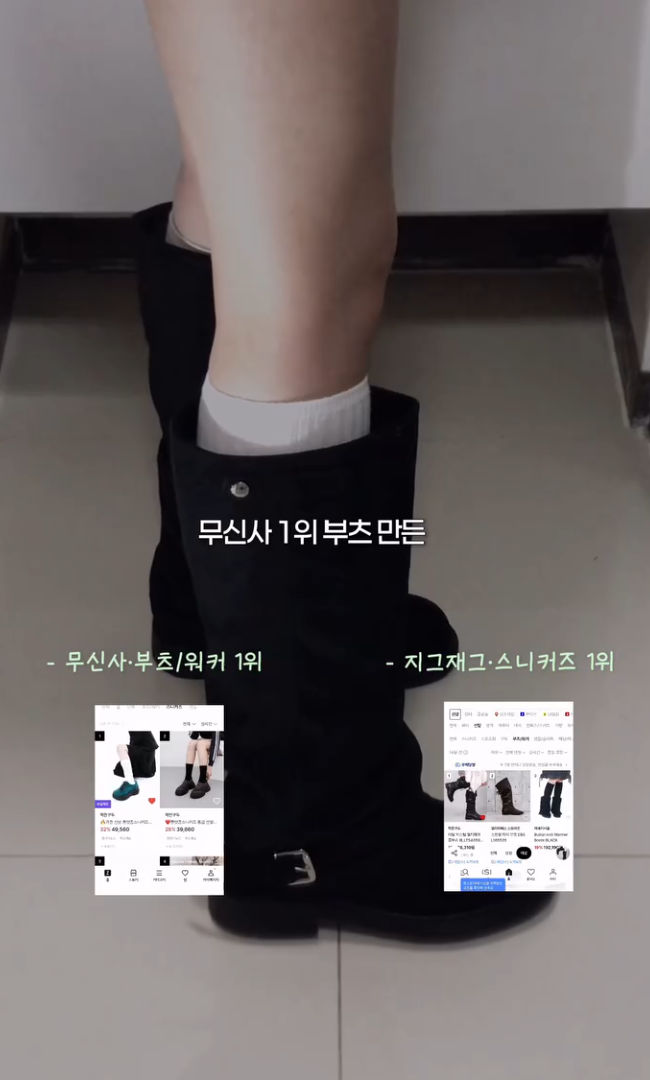
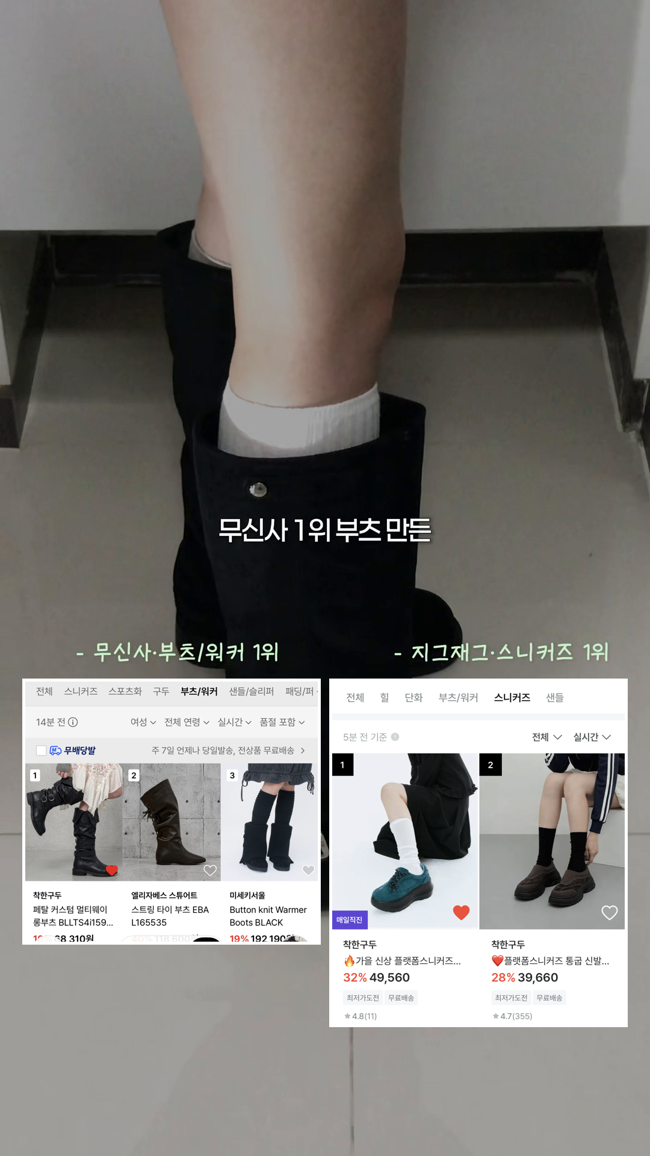
가이드: 랭킹 캡처를 두 번째 장면 바로 뒤로, 캡처 크게(배치 예시 교체)

diff --git a/keyheight/index.html b/keyheight/index.html
@@ -73,15 +73,15 @@ td{height:48px}footer{padding:30px 28px 60px}
 .chk{list-style:none;padding:0!important}.chk li:before{content:'□ ';color:var(--accent-deep);font-weight:800}
 @media(max-width:640px){.thumbs{grid-template-columns:repeat(3,1fr)}.inner{padding:0 16px}.scene{grid-template-columns:1fr}.scene .frame{max-width:260px}.prods{grid-template-columns:1fr 1fr;gap:12px}}
 .files{display:grid;grid-template-columns:repeat(4,minmax(0,1fr));gap:14px;margin-top:14px}.files a{display:block;text-decoration:none;color:var(--ink);border:1px solid var(--line);border-radius:14px;padding:10px;background:var(--soft);font-size:13.5px;font-weight:700;text-align:center}.files img{width:100%;height:120px;object-fit:contain;background:#fff;border-radius:10px;margin-bottom:8px;display:block}
-.rankrow{display:grid;grid-template-columns:260px 1fr;gap:24px;align-items:start;margin-top:10px}.rankrow>img{width:100%;border-radius:16px;border:1px solid var(--line)}
-@media(max-width:640px){.files{grid-template-columns:1fr 1fr}.rankrow{grid-template-columns:1fr}.rankrow>img{max-width:260px}}
+.rankrow{display:grid;grid-template-columns:360px 1fr;gap:24px;align-items:start;margin-top:10px}.rankrow>img{width:100%;border-radius:16px;border:1px solid var(--line)}
+@media(max-width:640px){.files{grid-template-columns:1fr 1fr}.rankrow{grid-template-columns:1fr}.rankrow>img{max-width:340px}}
 .thumb{margin-top:14px;padding:18px;border-radius:16px;background:#1b1b1d;color:#fff;text-align:center;max-width:420px}
 .thumb .zz{display:inline-block;background:#F23BA8;color:#fff;font-weight:900;font-size:14px;letter-spacing:.06em;padding:4px 12px;border-radius:6px}
 .thumb .l1{margin-top:10px;font-size:16px;font-weight:700}.thumb .l2{font-size:26px;font-weight:900;letter-spacing:-.03em;line-height:1.25}.thumb .l3{margin-top:6px;font-size:13px;color:#7EE8F2}
 .thumbs{display:grid;grid-template-columns:repeat(3,minmax(0,150px));gap:12px;margin-top:14px}.thumbs figure{margin:0}.thumbs img{width:100%;border-radius:12px;border:1px solid var(--line);display:block}.thumbs figcaption{font-size:12.5px;color:var(--ink-2)}
 .logorow{display:flex;align-items:center;justify-content:center;gap:8px}.logorow img{height:34px;width:34px;border-radius:8px}.logorow img.mu{outline:1px solid #555}.logorow i{width:1px;height:24px;background:#777;margin:0 6px}.logorow img.ck{width:110px;height:auto;border-radius:0}
 </style></head><body><div class="inner"><header class="top"><h1>착한구두 <mark>키높이 부츠</mark> 촬영 가이드</h1>
-<p class="sub1">이 순서대로 23초 안팎으로 찍어 주시면 돼요.</p><div class="musttop"><b>말은 끊기지 않게</b>처음부터 끝까지 한 번에 이야기하듯 말해 주세요. 화면이 바뀌어도 문장은 이어서 가요. (아래 장면별 예시를 이어 읽으면 한 문장이 돼요)</div><div class="flow"><a href="#s0"><b>첫 장면 · 0~2초</b><span>한쪽 부츠 · 한쪽 양말</span></a><a href="#s1"><b>두 번째 장면 · 2~5초</b><span>옆에서 비교 → 전신</span></a><a href="#s2"><b>세 번째 장면 · 5~10초</b><span>단면 + 디테일</span></a><a href="#s3"><b>네 번째 장면 · 10~20초</b><span>코디 1~5번</span></a><a href="#s4"><b>마지막 장면 · 20~23초</b><span>댓글 안내</span></a><a href="#srank"><b>랭킹 캡처</b><span>로고·1위 캡처 넣기</span></a><a class="x" href="#sx"><b>하지 마세요</b><span>이건 빼 주세요</span></a></div></header>
+<p class="sub1">이 순서대로 23초 안팎으로 찍어 주시면 돼요.</p><div class="musttop"><b>말은 끊기지 않게</b>처음부터 끝까지 한 번에 이야기하듯 말해 주세요. 화면이 바뀌어도 문장은 이어서 가요. (아래 장면별 예시를 이어 읽으면 한 문장이 돼요)</div><div class="flow"><a href="#s0"><b>첫 장면 · 0~2초</b><span>한쪽 부츠 · 한쪽 양말</span></a><a href="#s1"><b>두 번째 장면 · 2~5초</b><span>옆에서 비교 → 전신</span></a><a href="#srank"><b>두 번째 장면 이어서</b><span>랭킹 캡처 크게</span></a><a href="#s2"><b>세 번째 장면 · 5~10초</b><span>단면 + 디테일</span></a><a href="#s3"><b>네 번째 장면 · 10~20초</b><span>코디 1~5번</span></a><a href="#s4"><b>마지막 장면 · 20~23초</b><span>댓글 안내</span></a><a class="x" href="#sx"><b>하지 마세요</b><span>이건 빼 주세요</span></a></div></header>
 <h3 class="sub">제품 고르기 <small style="color:var(--ink-3);font-size:14px">하나만 골라 주세요</small></h3>
 <div class="prods">
 <a class="prod" href="https://www.chaakan.co.kr/product/detail.html?product_no=5016" target="_blank"><img src="assets/products/5016.jpg" alt="카민스"><div><b>카민스</b><span>롱부츠 · 키높이 +7.5cm</span></div></a>
@@ -90,11 +90,12 @@ td{height:48px}footer{padding:30px 28px 60px}
 <div class="musttop"><b>함께 보내드려요</b>고르신 제품의 단면 샘플이 같이 갑니다.</div>
 <section class="scene" id="s0"><div><div class="frame"><video src="assets/c/s1.mp4" autoplay muted loop playsinline></video></div></div><div><h2>첫 장면<small>0~2초</small><span class="must">꼭</span></h2><p>한쪽 발은 부츠, 한쪽 발은 양말로 서서 <b>허리 아래 하반신만</b> 2초 동안 멈춰 주세요. 얼굴이 나오면 화면이 작아져서 차이가 안 보여요. 키 숫자는 0초부터 화면에 띄워 주세요.</p><p><b>화면 글자는 이렇게 4줄</b>로 가운데에 띄워 주세요.</p><div class="thumb"><div class="logorow"><img src="assets/dl/zigzag_icon.png" alt="ZIGZAG"><img src="assets/dl/musinsa_icon.png" alt="MUSINSA" class="mu"><i></i><img src="assets/dl/chaakan_logo_white.png" alt="CHAAKAN" class="ck"></div><div class="l1">무신사/지그재그 1위!</div><div class="l2">굽 7.5cm · 키 ○○○ → ○○○cm</div><div class="l3">[ 1위 부츠를 만든 브랜드 ]</div></div><p class="note">맨 위에는 <b>지그재그·무신사 작은 로고 2개 + 착한구두 로고</b>를 한 줄로 나란히 넣어 주세요. 「여기 1위 → 이 브랜드」로 읽혀요. 파일은 아래 랭킹 캡처 칸에서 받으시면 돼요.</p><div class="thumbs"><figure><img src="assets/img/t1.jpg"><figcaption>분홍 로고 위치</figcaption></figure><figure><img src="assets/img/t2.jpg"><figcaption>분홍 로고 위치</figcaption></figure><figure><img src="assets/img/t3.jpg"><figcaption>글자 배치 예시</figcaption></figure></div><p class="note">부츠 신고 벽에 대고 직접 잰 키만 적어 주세요. 못 재셨으면 「굽 7.5cm」만 넣어 주세요. 이 장면이 썸네일이 돼요.</p><div class="cap"><b>말·자막 예시</b>키작녀분들 +7.5cm 부츠 추천할게요,</div></div></section>
 <section class="scene" id="s1"><div><div class="frame"><video src="assets/c/s2_syy.mp4" autoplay muted loop playsinline></video></div></div><div><h2>두 번째 장면<small>2~5초</small></h2><p><b>① 옆에서 비교</b> 카메라를 무릎 높이로 낮게 두고 <b>옆에서</b>, 한 발은 부츠·한 발은 양말로 나란히 서서 1초. 발뒤꿈치 높이 차이가 바로 보여요. 화면에 「+7.5cm」를 작게 띄워 주세요.</p><p><b>② 바로 전신</b> 이어서 거울 앞 전신으로 1초, 신은 뒤 비율을 보여 주세요. 얼굴은 폰으로 가려도 돼요.</p><div class="cap"><b>말·자막 예시</b>옆에서 보면 이만큼 올라가는데, 신자마자 비율 좋아 보이더라고요</div><p class="note">왼쪽은 실제로 반응이 좋았던 영상의 같은 장면이에요(그 제품은 +3.5cm).</p></div></section>
+<section class="scene" id="srank" style="display:block"><h2>랭킹 캡처 넣기<small>두 번째 장면에 이어서</small></h2><div class="rankrow"><img src="assets/dl/rank_layout.png" alt="배치 예시"><div><p>두 번째 장면 전신 컷 다음, 부츠가 크게 나오는 컷 위에 <b>「무신사 1위 부츠 만든」</b> 글자와 랭킹 캡처 2장을 양옆에 <b>크게</b> 올려 주세요. 캡처 한 장이 화면 폭의 40% 정도, 「1위」 표시가 폰에서 읽힐 만큼이요.</p><div class="cap"><b>글자 예시</b>무신사 1위 부츠 만든 / - 무신사·부츠/워커 1위 / - 지그재그·스니커즈 1위</div><p class="note">아래 파일을 눌러 저장해서 쓰시면 돼요. 첫 장면 작은 로고 2개와 착한구두 로고도 여기서 받으시면 돼요.</p><div class="files"><a href="assets/dl/zigzag_icon.png" download><img src="assets/dl/zigzag_icon.png">지그재그 작은 로고</a><a href="assets/dl/musinsa_icon.png" download><img src="assets/dl/musinsa_icon.png">무신사 작은 로고</a><a href="assets/dl/zigzag_logo.png" download><img src="assets/dl/zigzag_logo.png">지그재그 로고</a><a href="assets/dl/musinsa_logo.png" download><img src="assets/dl/musinsa_logo.png">무신사 로고</a><a href="assets/dl/musinsa_rank.png" download><img src="assets/dl/musinsa_rank.png">무신사 부츠/워커 1위</a><a href="assets/dl/zigzag_rank.png" download><img src="assets/dl/zigzag_rank.png">지그재그 스니커즈 1위</a><a href="assets/dl/chaakan_logo_black.png" download><img src="assets/dl/chaakan_logo_black.png">착한구두 로고</a></div></div></div></section>
 <section class="scene" id="s2"><div><div class="frame"><img src="assets/img/heel.jpg" alt=""><span class="tag">AI 예시 그림</span></div></div><div><h2>세 번째 장면<small>5~10초</small><span class="must">꼭</span></h2><p><b>① 단면</b> 단면 샘플을 한 발에 신거나 손에 들고, 카메라를 바닥 가까이 옆에 낮게 두세요. 잘린 면이 화면 가운데 오면 돼요.</p><p><b>② 디테일</b> 이어서 부츠를 손에 들고 질감 → 굽 클로즈업 → 버클·주름 옆모습을 1초씩 짧게 넘겨 주세요.</p><div class="thumbs"><figure><img src="assets/img/d1.jpg"><figcaption>손에 들고 질감</figcaption></figure><figure><img src="assets/img/d2.jpg"><figcaption>굽 클로즈업</figcaption></figure><figure><img src="assets/img/d3.jpg"><figcaption>버클·주름 옆모습</figcaption></figure></div><p class="note">발이 안 들어가면 신고 있는 부츠 옆 바닥에 샘플을 세워 두고 잘린 면이 카메라를 보게 해 주세요. 받으신 부츠는 자르거나 안창을 빼지 않아요. 샘플이 촬영 날까지 안 오면 이 장면은 빼고 자막으로만 대신해 주세요.</p><div class="cap"><b>말·자막 예시</b>안에 굽이 숨어 있어서 7.5cm인데도 티가 안 나고, 질감도 고급스러운데 신어 보니까 오래 걸어도 편하더라고요.</div><p class="note">질감·편한 점은 직접 신어 보고 느낀 대로 바꿔 주세요.</p></div></section>
 <section class="scene" id="s3"><div><div class="frame"><video src="assets/c/s4.mp4" autoplay muted loop playsinline></video></div></div><div><h2>네 번째 장면<small>10~20초</small></h2><p>평소 코디로 1~5번까지, 한 벌에 2초씩 전신으로 보여 주세요. 화면에 번호를 붙여 주세요.</p><div class="cap"><b>말·자막 예시</b>후드집업이랑 입어도 예쁘고, 원피스에도 찰떡이라</div></div></section>
 <section class="scene" id="s4"><div><div class="frame"><video src="assets/c/s5.mp4" autoplay muted loop playsinline></video></div></div><div><h2>마지막 장면<small>20~23초</small></h2><div class="say">댓글에 '○○' 남겨 주시면 링크 보내드릴게요</div><p class="note">○○ 자리에는 크리에이터님 전용 키워드를 넣어 주세요. 키워드는 따로 알려드려요.</p><p>마지막 장면 자막 아래에 <b>착한구두 로고</b>를 작게 넣어 주세요.</p><div class="files" style="grid-template-columns:repeat(2,minmax(0,200px))"><a href="assets/dl/chaakan_logo_black.png" download><img src="assets/dl/chaakan_logo_black.png">착한구두 로고 (검정)</a><a href="assets/dl/chaakan_logo_white.png" download style="background:#1b1b1d;color:#fff"><img src="assets/dl/chaakan_logo_white.png" style="background:#1b1b1d">착한구두 로고 (흰색)</a></div></div></section>
 <section class="scene" id="sx"><div><div class="frame"><img src="assets/img/x_face.jpg" alt=""><span class="tag">AI 예시 그림 · 얼굴까지 나오게 X</span></div><div style="height:14px"></div><div class="frame"><img src="assets/img/x_bag.jpg" alt=""><span class="tag">AI 예시 그림 · 가방 들고 X</span></div></div><div><h2>하지 마세요<small></small></h2><p><b>첫 장면에 얼굴까지 나오게 찍기</b> — 첫 장면은 허리 아래 하반신만 나와야 차이가 잘 보여요.</p><p><b>언박싱 장면 넣기</b> — 상자 열기·포장 뜯기는 빼 주세요. 첫 장면부터 부츠를 신은 모습으로 시작해요.</p><p><b>가방 들고 찍기</b> — 가방이 부츠를 가려요. 빈손으로, 다른 신발도 화면 밖에 둬 주세요.</p><p><b>다른 신발 브랜드</b> 이름·로고·상자, 유명인 이름, 저작권 음원은 넣지 않아요(기본 음원이나 무음).</p></div></section>
-<section class="scene" id="srank" style="display:block"><h2>랭킹 캡처 넣기<small>두 번째 장면 ~ 네 번째 장면 중 한 번</small></h2><div class="rankrow"><img src="assets/dl/rank_layout.png" alt="배치 예시"><div><p>부츠가 크게 나오는 장면 위에 <b>「무신사 1위 부츠 만든」</b> 글자와 랭킹 캡처 2장을 양옆에 작게 올려 주세요.</p><div class="cap"><b>글자 예시</b>무신사 1위 부츠 만든 / - 무신사·부츠/워커 1위 / - 지그재그·스니커즈 1위</div><p class="note">아래 파일을 눌러 저장해서 쓰시면 돼요. 첫 장면 작은 로고 2개와 착한구두 로고도 여기서 받으시면 돼요.</p><div class="files"><a href="assets/dl/zigzag_icon.png" download><img src="assets/dl/zigzag_icon.png">지그재그 작은 로고</a><a href="assets/dl/musinsa_icon.png" download><img src="assets/dl/musinsa_icon.png">무신사 작은 로고</a><a href="assets/dl/zigzag_logo.png" download><img src="assets/dl/zigzag_logo.png">지그재그 로고</a><a href="assets/dl/musinsa_logo.png" download><img src="assets/dl/musinsa_logo.png">무신사 로고</a><a href="assets/dl/musinsa_rank.png" download><img src="assets/dl/musinsa_rank.png">무신사 부츠/워커 1위</a><a href="assets/dl/zigzag_rank.png" download><img src="assets/dl/zigzag_rank.png">지그재그 스니커즈 1위</a><a href="assets/dl/chaakan_logo_black.png" download><img src="assets/dl/chaakan_logo_black.png">착한구두 로고</a></div></div></div></section><div class="box" style="margin-top:44px"><h3>꼭 3가지</h3><ul><li>첫 장면 0~2초: 허리 아래 하반신만 + 키 숫자 (얼굴 나오면 안 돼요)</li><li>세 번째 장면 단면 + 디테일 (말은 끊기지 않게)</li><li>캡션 첫 3줄 안에 제품 이름</li></ul></div>
+<div class="box" style="margin-top:44px"><h3>꼭 3가지</h3><ul><li>첫 장면 0~2초: 허리 아래 하반신만 + 키 숫자 (얼굴 나오면 안 돼요)</li><li>세 번째 장면 단면 + 디테일 (말은 끊기지 않게)</li><li>캡션 첫 3줄 안에 제품 이름</li></ul></div>
 <div class="box"><h3>올리실 때 같이 주실 것</h3><ul><li>초안 영상 1번 — [협업 조건]까지 (숫자·제품 이름만 봐요)</li><li>클린본 1개 — 자막·음악만 뺀 판, 게시하는 날</li><li>유료 파트너십 광고 코드 1개 — 게시 직후</li><li>게시 3일 뒤 인사이트 캡처 1장 (조회·저장·공유)</li></ul></div>
 <div class="box"><h3>단면 샘플 돌려보내기</h3><ul><li>촬영이 끝나면 <b>단면 샘플만</b> 착불로 보내 주세요.</li><li>서울 마포구 양화로 125 5층 착한구두 / 받는 분: 콘텐츠기획 / 010-5595-5342</li></ul></div>
 <div class="box drop"><h3>올리기 전 확인</h3><ul class="chk"><li>0~2초 얼굴 안 나옴 · 하반신만 · 키 숫자</li><li>단면 + 디테일 장면</li><li>말이 중간에 끊기지 않음</li><li>캡션 제품 이름</li></ul><p class="note">말·자막은 본인 말투로 바꿔도 돼요. 숫자·제품 이름만 그대로. 초는 대략이에요.</p></div>

diff --git a/general/index.html b/general/index.html
@@ -73,8 +73,8 @@ td{height:48px}footer{padding:30px 28px 60px}
 .chk{list-style:none;padding:0!important}.chk li:before{content:'□ ';color:var(--accent-deep);font-weight:800}
 @media(max-width:640px){.thumbs{grid-template-columns:repeat(3,1fr)}.inner{padding:0 16px}.scene{grid-template-columns:1fr}.scene .frame{max-width:260px}.prods{grid-template-columns:1fr 1fr;gap:12px}}
 .files{display:grid;grid-template-columns:repeat(4,minmax(0,1fr));gap:14px;margin-top:14px}.files a{display:block;text-decoration:none;color:var(--ink);border:1px solid var(--line);border-radius:14px;padding:10px;background:var(--soft);font-size:13.5px;font-weight:700;text-align:center}.files img{width:100%;height:120px;object-fit:contain;background:#fff;border-radius:10px;margin-bottom:8px;display:block}
-.rankrow{display:grid;grid-template-columns:260px 1fr;gap:24px;align-items:start;margin-top:10px}.rankrow>img{width:100%;border-radius:16px;border:1px solid var(--line)}
-@media(max-width:640px){.files{grid-template-columns:1fr 1fr}.rankrow{grid-template-columns:1fr}.rankrow>img{max-width:260px}}
+.rankrow{display:grid;grid-template-columns:360px 1fr;gap:24px;align-items:start;margin-top:10px}.rankrow>img{width:100%;border-radius:16px;border:1px solid var(--line)}
+@media(max-width:640px){.files{grid-template-columns:1fr 1fr}.rankrow{grid-template-columns:1fr}.rankrow>img{max-width:340px}}
 .thumb{margin-top:14px;padding:18px;border-radius:16px;background:#1b1b1d;color:#fff;text-align:center;max-width:420px}
 .thumb .zz{display:inline-block;background:#F23BA8;color:#fff;font-weight:900;font-size:14px;letter-spacing:.06em;padding:4px 12px;border-radius:6px}
 .thumb .l1{margin-top:10px;font-size:16px;font-weight:700}.thumb .l2{font-size:26px;font-weight:900;letter-spacing:-.03em;line-height:1.25}.thumb .l3{margin-top:6px;font-size:13px;color:#7EE8F2}
@@ -88,7 +88,7 @@ td{height:48px}footer{padding:30px 28px 60px}
 <div class="musttop" style="margin-top:26px"><b>제품</b>촬영하실 제품과 할인 조건은 협업 내용에 맞춰 따로 알려드려요.</div>
 <section class="scene" id="s0"><div><div class="frame"><video src="assets/c/g1.mp4" autoplay muted loop playsinline></video><span class="tag">실제 예시</span></div></div><div><h2>첫 장면<small>0~2초</small><span class="must">꼭</span></h2><p>바닥에 놓인 부츠 → 옆에서 본 다리 → 정면 하반신 순으로 0.5초씩 빠르게 넘겨 주세요. 그 위에 <b>4줄 글자</b>를 계속 띄워 두면 돼요.</p><div class="thumb"><div class="logorow"><img src="assets/dl/zigzag_icon.png" alt="ZIGZAG"><img src="assets/dl/musinsa_icon.png" alt="MUSINSA" class="mu"><i></i><img src="assets/dl/chaakan_logo_white.png" alt="CHAAKAN" class="ck"></div><div class="l1">무신사/지그재그 1위!</div><div class="l2">○○ 부츠 추천♥</div><div class="l3">[ 1위 부츠를 만든 브랜드 ]</div></div><p class="note">○○ 자리에는 제품 특징 한 단어(스웨이드·롱·워커 등)를 넣어 주세요. 이 장면이 썸네일이 돼요.</p><p class="note">맨 위에는 <b>지그재그·무신사 작은 로고 2개 + 착한구두 로고</b>를 한 줄로 나란히 넣어 주세요. 「여기 1위 → 이 브랜드」로 읽혀요. 파일은 아래 「저장용 파일」에서 받으시면 돼요.</p><div class="cap"><b>말·자막 예시</b>무신사 지그재그 1위 ○○ 부츠 추천,</div></div></section>
 <section class="scene" id="s1"><div><div class="frame"><video src="assets/c/g2.mp4" autoplay muted loop playsinline></video><span class="tag">실제 예시</span></div></div><div><h2>두 번째 장면<small>2~4초</small></h2><p>거울 앞 전신 한 컷에, 평소 비슷한 신발을 신었던 본인 사진 2장을 작게 붙여 주세요. 얼굴은 폰으로 가려도 돼요.</p><div class="cap"><b>말·자막 예시</b>롱부츠 처돌인 제가 만족한 이 부츠</div></div></section>
-<section class="scene" id="s2"><div><div class="frame"><video src="assets/c/g3.mp4" autoplay muted loop playsinline></video><span class="tag">실제 예시</span></div></div><div><h2>세 번째 장면<small>4~7초</small><span class="must">꼭</span></h2><p>부츠만 단독으로 한 컷 → 부츠 위에 <b>「무신사 1위 부츠 만든」</b> 글자와 랭킹 캡처 2장을 양옆에 작게 → 손에 들고 한 컷.</p><p class="note">랭킹 캡처·로고는 아래 「저장용 파일」에서 받아 쓰시면 돼요.</p><div class="cap"><b>말·자막 예시</b>무신사 1위 부츠 만든 착한구두에서 발견한 레전드템인데</div></div></section>
+<section class="scene" id="s2"><div><div class="frame"><video src="assets/c/g3.mp4" autoplay muted loop playsinline></video><span class="tag">실제 예시</span></div></div><div><h2>세 번째 장면<small>4~7초</small><span class="must">꼭</span></h2><p>부츠만 단독으로 한 컷 → 부츠 위에 <b>「무신사 1위 부츠 만든」</b> 글자와 랭킹 캡처 2장을 양옆에 <b>크게</b>(한 장이 화면 폭의 40% 정도, 「1위」가 읽히게) → 손에 들고 한 컷.</p><div class="thumbs"><figure><img src="assets/dl/rank_layout.png"><figcaption>캡처 크기 예시</figcaption></figure></div><p class="note">랭킹 캡처·로고는 아래 「저장용 파일」에서 받아 쓰시면 돼요.</p><div class="cap"><b>말·자막 예시</b>무신사 1위 부츠 만든 착한구두에서 발견한 레전드템인데</div></div></section>
 <section class="scene" id="s3"><div><div class="frame"><video src="assets/c/g4.mp4" autoplay muted loop playsinline></video><span class="tag">실제 예시</span></div></div><div><h2>네 번째 장면<small>7~10초</small></h2><p>옆모습 → 한쪽 발만 부츠 신고 비교 → 전신 거울샷. 신어 보고 바로 느낀 점을 말해 주세요.</p><div class="cap"><b>말·자막 예시</b>일단 편하고 굽 높이도 딱 적당해서 신자마자 비율 좋아 보이더라고요</div></div></section>
 <section class="scene" id="s4"><div><div class="frame"><video src="assets/c/g5.mp4" autoplay muted loop playsinline></video><span class="tag">실제 예시</span></div></div><div><h2>다섯 번째 장면<small>10~16초</small><span class="must">꼭</span></h2><p>부츠를 손에 들고 <b>질감 → 굽 클로즈업 → 바닥에 놓고 한 컷 → 버클·주름 옆모습</b> 순으로 1초씩 넘겨 주세요.</p><div class="cap"><b>말·자막 예시</b>고급스러운 질감에 쿠션감이 좋아서 오래 걸어도 편했어요, 벨트 디테일 덕분에 힙한 포인트가 있고 주름이 진짜 예쁘더라고요</div><p class="note">질감·편한 점은 직접 신어 보고 느낀 대로 바꿔 주세요.</p></div></section>
 <section class="scene" id="s5"><div><div class="frame"><video src="assets/c/g6.mp4" autoplay muted loop playsinline></video><span class="tag">실제 예시</span></div></div><div><h2>여섯 번째 장면<small>16~20초</small></h2><p>분위기가 다른 코디 2벌(예: 숏팬츠 / 롱코트)을 2초씩 보여 주세요.</p><div class="cap"><b>말·자막 예시</b>힙한 숏팬츠나 단정한 코트에 신어도 찰떡이라 가을 겨울에 필수예요</div></div></section>
